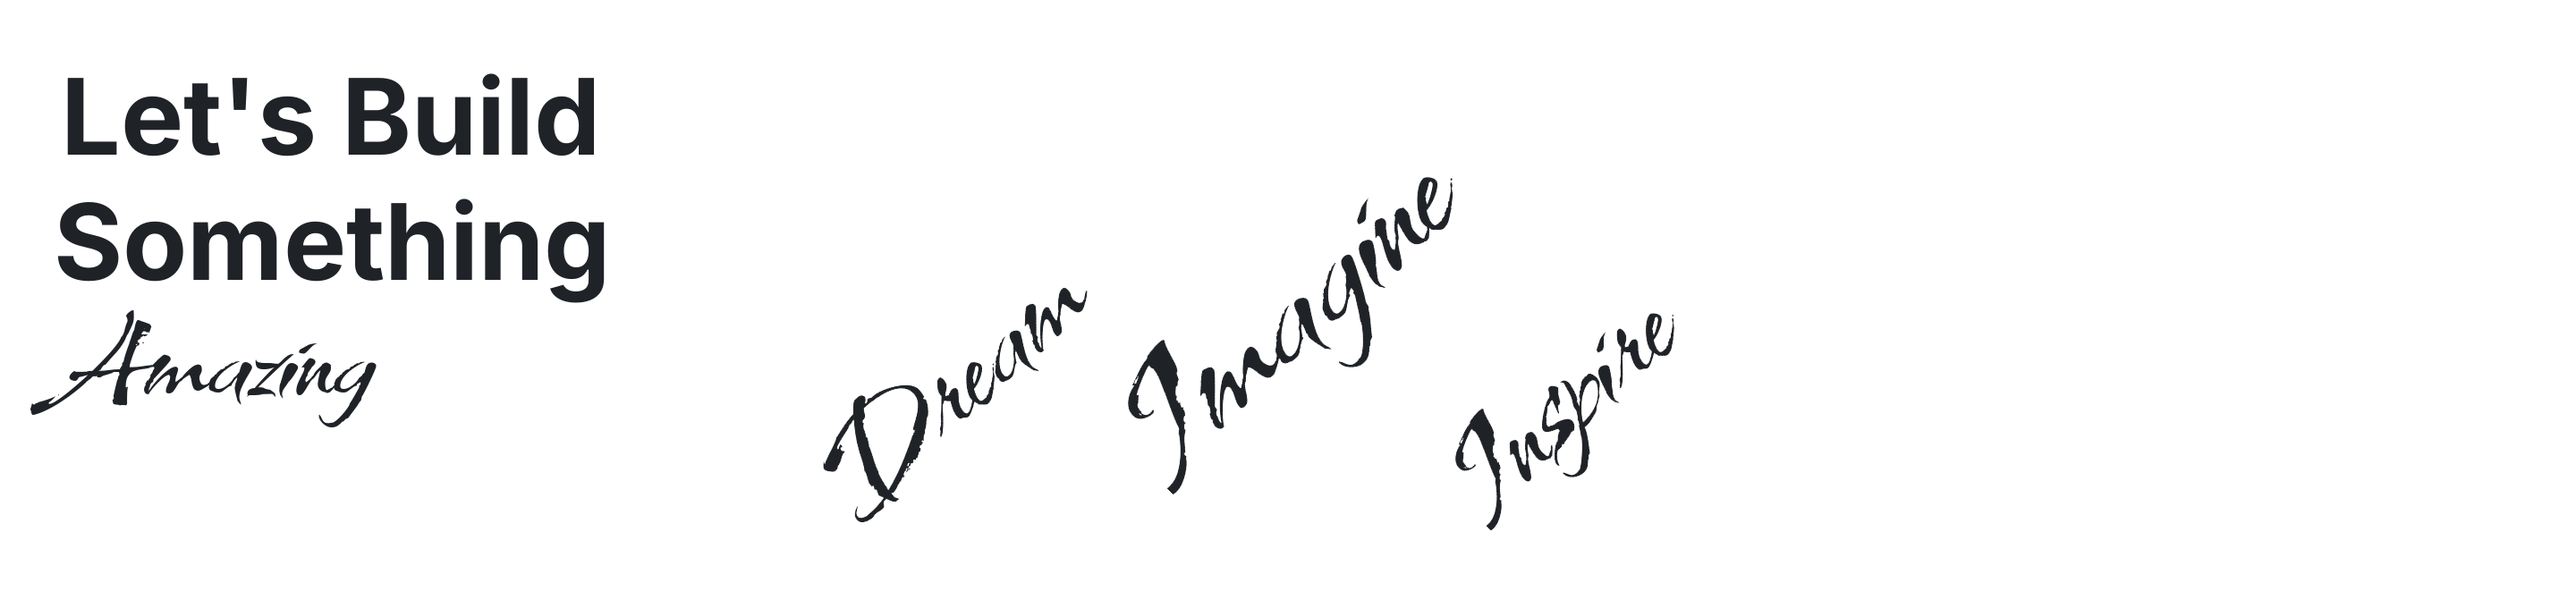
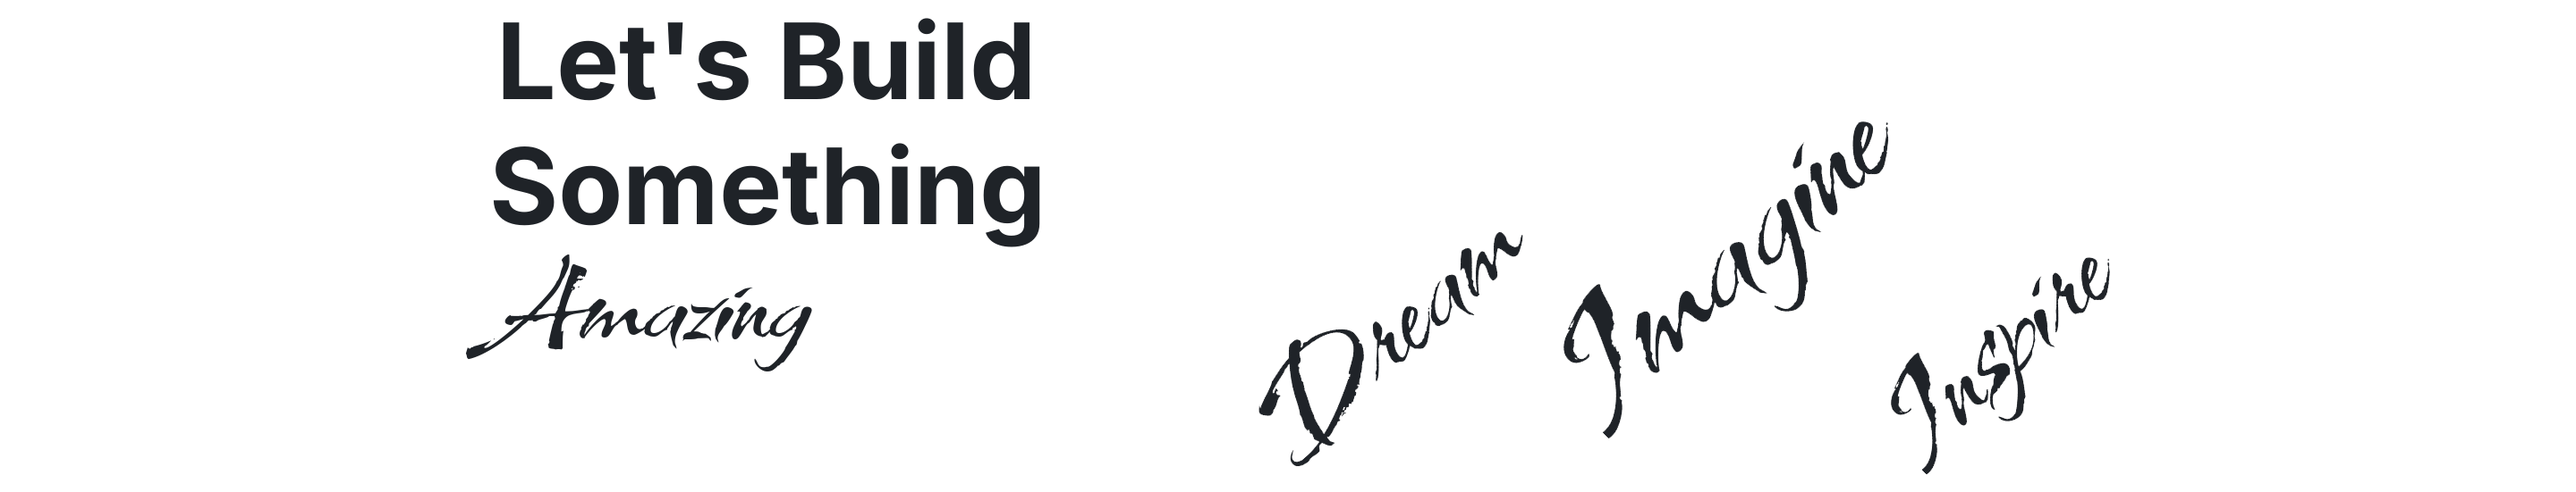
Center footer art and stack explore links

diff --git a/README.md b/README.md
@@ -34,7 +34,7 @@ Zambia-based. Open to remote collaboration. Drawn to useful ideas and the engine
 
 <p align="center"><a href="mailto:amoskays1@gmail.com"><img src="https://img.shields.io/badge/Get%20In%20Touch-%E2%86%97-FF7300?style=for-the-badge&labelColor=292929" alt="Get In Touch" /></a> <a href="https://www.linkedin.com/in/amos-kanyanta/"><img src="https://img.shields.io/badge/LinkedIn-%E2%86%97-FF7300?style=for-the-badge&labelColor=FF7300" alt="LinkedIn" /></a> <a href="https://www.facebook.com/share/1Mkz7aMmdd/?mibextid=wwXIfr"><img src="https://img.shields.io/badge/Facebook-%E2%86%97-FF7300?style=for-the-badge&labelColor=FF7300&logo=facebook&logoColor=white" alt="Facebook" /></a> <a href="https://x.com/Amos_kays"><img src="https://img.shields.io/badge/X-%E2%86%97-FF7300?style=for-the-badge&labelColor=FF7300&logo=x&logoColor=white" alt="X" /></a></p>
 
-<p align="center"><b>EXPLORE MY WORK</b><br /><a href="#introduction"><img src="https://img.shields.io/badge/ABOUT-The%20person%20behind%20the%20code-1a1a1a?style=for-the-badge&labelColor=FF7300" alt="About" /></a> <a href="#toolkit"><img src="https://img.shields.io/badge/PORTFOLIO-Products%20%26%20engineering-1a1a1a?style=for-the-badge&labelColor=FF7300" alt="Portfolio" /></a> <a href="#activity"><img src="https://img.shields.io/badge/AI%20%2F%20ML-Research%20%26%20experiments-1a1a1a?style=for-the-badge&labelColor=FF7300" alt="AI / ML" /></a></p>
+<p align="center"><b>EXPLORE MY WORK</b><br /><a href="#introduction"><img src="https://img.shields.io/badge/ABOUT-The%20person%20behind%20the%20code-1a1a1a?style=for-the-badge&labelColor=FF7300" alt="About" /></a><br /><a href="#toolkit"><img src="https://img.shields.io/badge/PORTFOLIO-Products%20%26%20engineering-1a1a1a?style=for-the-badge&labelColor=FF7300" alt="Portfolio" /></a><br /><a href="#activity"><img src="https://img.shields.io/badge/AI%20%2F%20ML-Research%20%26%20experiments-1a1a1a?style=for-the-badge&labelColor=FF7300" alt="AI / ML" /></a></p>
 
 <p align="center"><picture><source media="(prefers-color-scheme: dark)" srcset="assets/footer/footer-bottom-dark.png" /><img src="assets/footer/footer-bottom-light.png" width="900" alt="© Amos Kanyanta 2026. Created by Amos Kanyanta, with signature." /></picture></p>
 
